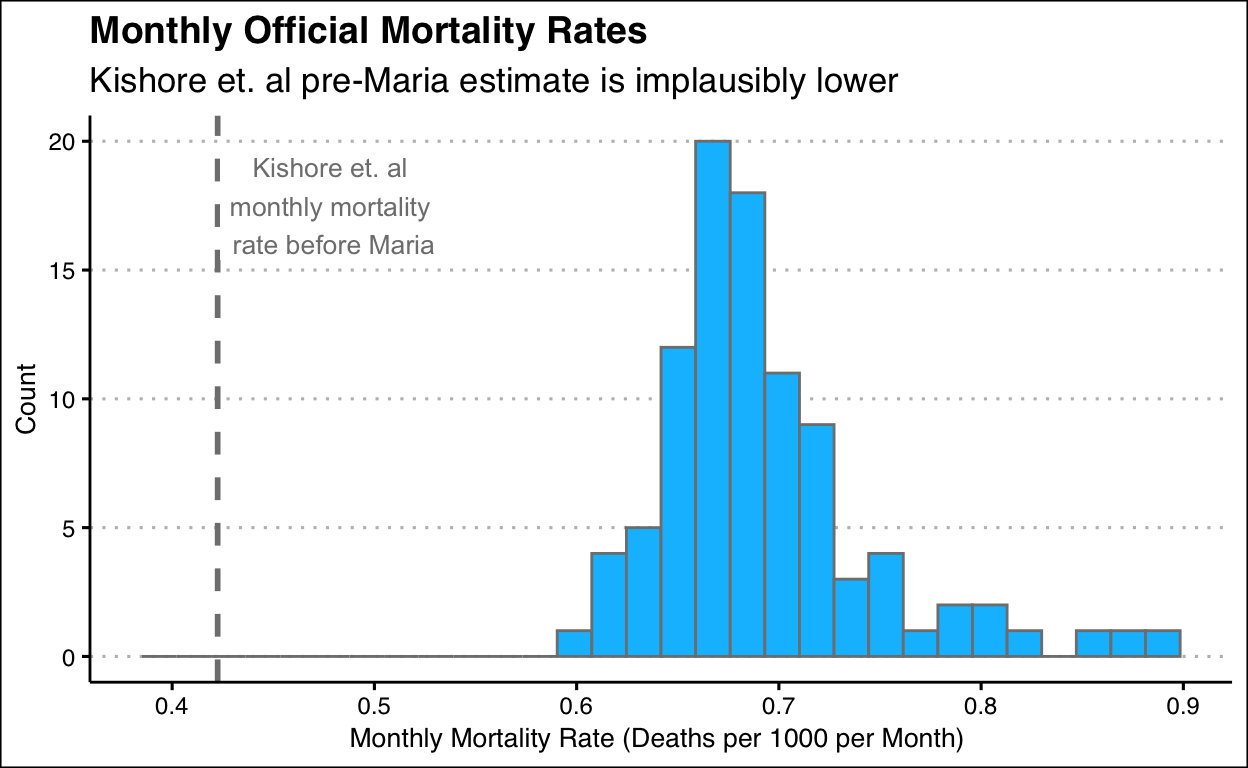
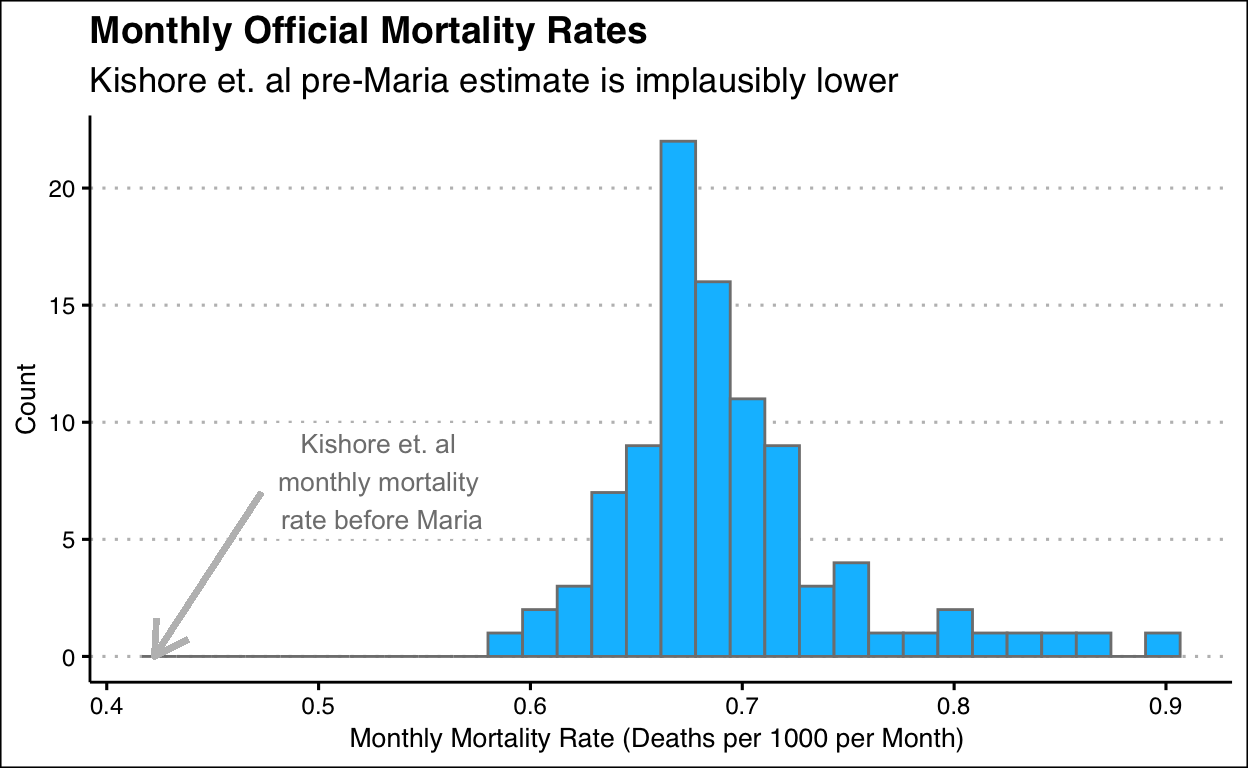
better version; ready for master

diff --git a/docs/news.html b/docs/news.html
@@ -91,8 +91,8 @@ code span.wa { color: #5e5e5e; font-style: italic; } /* Warning */
 
 
   <!--  https://schema.org/Article -->
-  <meta property="article:published" itemprop="datePublished" content="2021-07-30"/>
-  <meta property="article:created" itemprop="dateCreated" content="2021-07-30"/>
+  <meta property="article:published" itemprop="datePublished" content="2021-08-07"/>
+  <meta property="article:created" itemprop="dateCreated" content="2021-08-07"/>
   <meta name="article:author" content="David D. Kane"/>
   <meta name="article:author" content="Shreeram Patkar"/>
 
@@ -110,11 +110,10 @@ code span.wa { color: #5e5e5e; font-style: italic; } /* Warning */
   
   <meta name="citation_reference" content="citation_title=Mortality in puerto rico after hurricane maria;citation_publication_date=2018;citation_doi=10.1056/NEJMsa1803972;citation_author=Mahmud A Kishore N"/>
   <meta name="citation_reference" content="citation_title=Fatalities in the united states indirectly associated with atlantic tropical cyclones;citation_publication_date=2016;citation_doi=10.1175/BAMS-D-15-00042.1;citation_author=B. Wayne Blanchard Edward N. Rappaport"/>
-  <meta name="citation_reference" content="citation_title=Use of death counts from vital statistics to calculate excess deaths in puerto rico following hurricane maria;citation_publication_date=2018;citation_doi=10.1001/jama.2018.10929;citation_author=Jeffrey T. Howard Alexis R. Santos-Lozada"/>
   <!--radix_placeholder_rmarkdown_metadata-->
 
   <script type="text/json" id="radix-rmarkdown-metadata">
-  {"type":"list","attributes":{"names":{"type":"character","attributes":{},"value":["title","authors","date","output","bibliography","author"]}},"value":[{"type":"character","attributes":{},"value":["Mortality Estimation"]},{"type":"list","attributes":{},"value":[{"type":"list","attributes":{"names":{"type":"character","attributes":{},"value":["name"]}},"value":[{"type":"character","attributes":{},"value":["David D. Kane"]}]},{"type":"list","attributes":{"names":{"type":"character","attributes":{},"value":["name"]}},"value":[{"type":"character","attributes":{},"value":["Shreeram Patkar"]}]}]},{"type":"character","attributes":{},"value":["2021-07-30"]},{"type":"character","attributes":{},"value":["distill::distill_article"]},{"type":"character","attributes":{},"value":["bibliography.bib"]},{"type":"list","attributes":{},"value":[{"type":"list","attributes":{"names":{"type":"character","attributes":{},"value":["name"]}},"value":[{"type":"character","attributes":{},"value":["David D. Kane"]}]},{"type":"list","attributes":{"names":{"type":"character","attributes":{},"value":["name"]}},"value":[{"type":"character","attributes":{},"value":["Shreeram Patkar"]}]}]}]}
+  {"type":"list","attributes":{"names":{"type":"character","attributes":{},"value":["title","authors","date","output","bibliography","author"]}},"value":[{"type":"character","attributes":{},"value":["Mortality Estimation"]},{"type":"list","attributes":{},"value":[{"type":"list","attributes":{"names":{"type":"character","attributes":{},"value":["name"]}},"value":[{"type":"character","attributes":{},"value":["David D. Kane"]}]},{"type":"list","attributes":{"names":{"type":"character","attributes":{},"value":["name"]}},"value":[{"type":"character","attributes":{},"value":["Shreeram Patkar"]}]}]},{"type":"character","attributes":{},"value":["2021-08-07"]},{"type":"character","attributes":{},"value":["distill::distill_article"]},{"type":"character","attributes":{},"value":["bibliography.bib"]},{"type":"list","attributes":{},"value":[{"type":"list","attributes":{"names":{"type":"character","attributes":{},"value":["name"]}},"value":[{"type":"character","attributes":{},"value":["David D. Kane"]}]},{"type":"list","attributes":{"names":{"type":"character","attributes":{},"value":["name"]}},"value":[{"type":"character","attributes":{},"value":["Shreeram Patkar"]}]}]}]}
   </script>
   <!--/radix_placeholder_rmarkdown_metadata-->
   <!--radix_placeholder_navigation_in_header-->
@@ -2059,7 +2058,7 @@ code span.wa { color: #5e5e5e; font-style: italic; } /* Warning */
 <!--radix_placeholder_front_matter-->
 
 <script id="distill-front-matter" type="text/json">
-{"title":"Mortality Estimation","authors":[{"author":"David D. Kane","authorURL":"#","affiliation":"&nbsp;","affiliationURL":"#","orcidID":""},{"author":"Shreeram Patkar","authorURL":"#","affiliation":"&nbsp;","affiliationURL":"#","orcidID":""}],"publishedDate":"2021-07-30T00:00:00.000+00:00","citationText":"Kane & Patkar, 2021"}
+{"title":"Mortality Estimation","authors":[{"author":"David D. Kane","authorURL":"#","affiliation":"&nbsp;","affiliationURL":"#","orcidID":""},{"author":"Shreeram Patkar","authorURL":"#","affiliation":"&nbsp;","affiliationURL":"#","orcidID":""}],"publishedDate":"2021-08-07T00:00:00.000+00:00","citationText":"Kane & Patkar, 2021"}
 </script>
 
 <!--/radix_placeholder_front_matter-->
@@ -2098,14 +2097,27 @@ code span.wa { color: #5e5e5e; font-style: italic; } /* Warning */
 <!-- ### Methodical Discrepancies -->
 <!-- When approximating the loss of life, we characterize the loss as a “direct” death; that is, we attribute the fatality to a physical manifestation of the storm. The most common examples of direct deaths are drowning in storm surge, storm-driven waves, rip currents, or freshwater flood from rain. They also include physical trauma incurred from windborne debris or structural failure induced by wind (tornadic and otherwise) [@BAMS]. Consequently, the official death toll for Hurricane Maria was estimated to be 64 (later increased to 2,975) [@govtoll]. Contrarily, [@kishore2018]'s methodology includes indirect deaths caused by the worsening of chronic conditions, delayed medical treatments and more and thus has a far higher reported death toll of 4,625. The methodical discrepancies mentioned above are ultimately responsible for the varying death counts and the resulting chaotic media coverage -->
 <h3 id="how-typical-storm-mortality-is-measured">How typical storm mortality is measured</h3>
-<p>When approximating the loss of life, we characterize the loss as a “direct” death; that is, we attribute the fatality to a physical manifestation of the storm <span class="citation" data-cites="BAMS">(<a href="#ref-BAMS" role="doc-biblioref">Edward N. Rappaport 2016</a>)</span>. The most common examples of direct deaths are drowning in storm surge, storm-driven waves, rip currents, or freshwater flood from rain. They also include physical trauma incurred from windborne debris or structural failure induced by wind (tornadic and otherwise). Consequently, the official death toll for Hurricane Maria was estimated to be <a href="https://www.telemundopr.com/noticias/puerto-rico/aumentan-a-64-las-muertes-por-el-huracan-maria/10690/">64</a>.</p>
-<h3 id="what-happened-after-the-study-was-published">What happened after the study was published</h3>
-<p>Unlike previous official studies, <span class="citation" data-cites="kishore2018">(<a href="#ref-kishore2018" role="doc-biblioref">Kishore N 2018</a>)</span>’s methodology includes indirect deaths caused by the worsening of chronic conditions, delayed medical treatments and more. It thus has a far higher reported death toll of 4,625 as compared to other official studies. The differences in the definition of “excess mortality” between <span class="citation" data-cites="kishore2018">(<a href="#ref-kishore2018" role="doc-biblioref">Kishore N 2018</a>)</span> and the official study was ignored by the general media and lead to headlines such as <a href="https://www.nytimes.com/2018/05/29/us/puerto-rico-deaths-hurricane.html"><em>“Puerto Rico’s Hurricane Maria Death Toll Could Exceed 4,000, New Study Estimates”</em></a> (New York Times) and many subsequently flawed investigations. These consequently lead to public chaos and the presumed severity of the hurricane being inconsistent. Following the public outcry, the government of Puerto Rico “updated” its original mortality to 2,975 <span class="citation" data-cites="govtoll">(<a href="#ref-govtoll" role="doc-biblioref">Alexis R. Santos-Lozada 2018</a>)</span>, yet another confusing and inconsistent figure.</p>
+<p>“When approximating the loss of life, [the US government] characterizes the loss as a “direct” death; that is, we attribute the fatality to a physical manifestation of the storm" <span class="citation" data-cites="BAMS">(<a href="#ref-BAMS" role="doc-biblioref">Edward N. Rappaport 2016</a>)</span>. The most common examples of direct deaths are drowning in storm surge, storm-driven waves, rip currents, or freshwater flood from rain. They also include physical trauma incurred from windborne debris or structural failure induced by wind (tornadic and otherwise). Consequently, the official death toll for Hurricane Maria was determined to be <a href="https://www.telemundopr.com/noticias/puerto-rico/aumentan-a-64-las-muertes-por-el-huracan-maria/10690/">64</a>.</p>
+<h3 id="what-happened-timeline">What happened (Timeline)</h3>
+<h4 id="september-2017"><strong>September 2017</strong></h4>
+<p>Hurricane maria makes landfall and leaves behind a path of distruction</p>
+<h4 id="october-2017"><strong>October 2017</strong></h4>
+<p>The Puerto Rican government releases the official death toll of 64 people.</p>
+<h4 id="july-2018"><strong>July 2018</strong></h4>
+<p><span class="citation" data-cites="kishore2018">(<a href="#ref-kishore2018" role="doc-biblioref">Kishore N 2018</a>)</span> is published in the New England Journal of Medicine and reveals that according to their study, the hurricane’s mortality rate should be 4,625</p>
+<h4 id="july-august-2018"><strong>July-August 2018</strong></h4>
+<p><span class="citation" data-cites="kishore2018">(<a href="#ref-kishore2018" role="doc-biblioref">Kishore N 2018</a>)</span> gains traction and starts making headlines such as the following:</p>
+<ul>
+<li><a href="https://www.nytimes.com/2018/05/29/us/puerto-rico-deaths-hurricane.html"><em>“Puerto Rico’s Hurricane Maria Death Toll Could Exceed 4,000, New Study Estimates”</em></a> (The New York Times)</li>
+<li><a href="https://www.wsj.com/articles/death-toll-from-hurricane-maria-may-exceed-4-600-in-puerto-rico-study-says-1527610573"><em>“New Study Puts Hurricane Maria Death Toll in Puerto Rico at 4,600”</em></a> (The Wall Street Journal)</li>
+<li><a href="https://www.washingtonpost.com/national/harvard-study-estimates-thousands-died-in-puerto-rico-due-to-hurricane-maria/2018/05/29/1a82503a-6070-11e8-a4a4-c070ef53f315_story.html"><em>“Harvard study estimates thousands died in Puerto Rico because of Hurricane Maria”</em></a> (The Washington Post)</li>
+</ul>
+<p>None of these initial articles included the important differences between <span class="citation" data-cites="kishore2018">(<a href="#ref-kishore2018" role="doc-biblioref">Kishore N 2018</a>)</span>’s study other official ones. As a result, <span class="citation" data-cites="kishore2018">(<a href="#ref-kishore2018" role="doc-biblioref">Kishore N 2018</a>)</span> was compared to the official death count even though one included indirect deaths and the other did not. Consequently, the presumed severity of the hurricane Maria was inconsistent.</p>
+<h4 id="august-2018"><strong>August 2018</strong></h4>
+<p>The government of Puerto Rico commissions a study released over two months that concludes with an estimated mortality of 2,975.</p>
+<!-- Unlike previous official studies, [@kishore2018]'s methodology includes indirect deaths caused by the worsening of chronic conditions, delayed medical treatments and more. It thus has a far higher reported death toll of 4,625 as compared to other official studies. The differences in the definition of "excess mortality" between [@kishore2018] and the official study was ignored by the general media and lead to headlines such as [*"Puerto Rico’s Hurricane Maria Death Toll Could Exceed 4,000, New Study Estimates"*](https://www.nytimes.com/2018/05/29/us/puerto-rico-deaths-hurricane.html) (New York Times) and many subsequently flawed investigations. These consequently lead to public chaos and the presumed severity of the hurricane being inconsistent. Following the public outcry, the government of Puerto Rico "updated" its original mortality to 2,975 [@govtoll], yet another confusing and inconsistent figure. -->
 <div class="sourceCode" id="cb1"><pre class="sourceCode r distill-force-highlighting-css"><code class="sourceCode r"></code></pre></div>
 <div id="refs" class="references csl-bib-body hanging-indent" role="doc-bibliography">
-<div id="ref-govtoll" class="csl-entry" role="doc-biblioentry">
-Alexis R. Santos-Lozada, Jeffrey T. Howard. 2018. <span>“Use of Death Counts from Vital Statistics to Calculate Excess Deaths in Puerto Rico Following Hurricane Maria.”</span> <em>The Journal of the American Medical Association</em>. <a href="https://doi.org/10.1001/jama.2018.10929">https://doi.org/10.1001/jama.2018.10929</a>.
-</div>
 <div id="ref-BAMS" class="csl-entry" role="doc-biblioentry">
 Edward N. Rappaport, B. Wayne Blanchard. 2016. <span>“Fatalities in the United States Indirectly Associated with Atlantic Tropical Cyclones.”</span> <em>Bulletin of the American Meteorological Society</em>. <a href="https://doi.org/10.1175/BAMS-D-15-00042.1">https://doi.org/10.1175/BAMS-D-15-00042.1</a>.
 </div>

diff --git a/docs/discussion.html b/docs/discussion.html
@@ -91,8 +91,8 @@ code span.wa { color: #5e5e5e; font-style: italic; } /* Warning */
 
 
   <!--  https://schema.org/Article -->
-  <meta property="article:published" itemprop="datePublished" content="2021-07-30"/>
-  <meta property="article:created" itemprop="dateCreated" content="2021-07-30"/>
+  <meta property="article:published" itemprop="datePublished" content="2021-08-07"/>
+  <meta property="article:created" itemprop="dateCreated" content="2021-08-07"/>
 
   <!--  https://developers.facebook.com/docs/sharing/webmasters#markup -->
   <meta property="og:title" content="Hurricane Maria Mortality Rate: Detailed Discussion"/>
@@ -112,7 +112,7 @@ code span.wa { color: #5e5e5e; font-style: italic; } /* Warning */
   <!--radix_placeholder_rmarkdown_metadata-->
 
   <script type="text/json" id="radix-rmarkdown-metadata">
-  {"type":"list","attributes":{"names":{"type":"character","attributes":{},"value":["title","date","output","bibliography"]}},"value":[{"type":"character","attributes":{},"value":["Detailed Discussion"]},{"type":"character","attributes":{},"value":["2021-07-30"]},{"type":"character","attributes":{},"value":["distill::distill_article"]},{"type":"character","attributes":{},"value":["bibliography.bib"]}]}
+  {"type":"list","attributes":{"names":{"type":"character","attributes":{},"value":["title","date","output","bibliography"]}},"value":[{"type":"character","attributes":{},"value":["Detailed Discussion"]},{"type":"character","attributes":{},"value":["2021-08-07"]},{"type":"character","attributes":{},"value":["distill::distill_article"]},{"type":"character","attributes":{},"value":["bibliography.bib"]}]}
   </script>
   <!--/radix_placeholder_rmarkdown_metadata-->
   <!--radix_placeholder_navigation_in_header-->
@@ -2057,7 +2057,7 @@ code span.wa { color: #5e5e5e; font-style: italic; } /* Warning */
 <!--radix_placeholder_front_matter-->
 
 <script id="distill-front-matter" type="text/json">
-{"title":"Detailed Discussion","authors":[],"publishedDate":"2021-07-30T00:00:00.000+00:00"}
+{"title":"Detailed Discussion","authors":[],"publishedDate":"2021-08-07T00:00:00.000+00:00"}
 </script>
 
 <!--/radix_placeholder_front_matter-->
@@ -2096,13 +2096,38 @@ code span.wa { color: #5e5e5e; font-style: italic; } /* Warning */
 <h3 id="annotated-section-of-authors-reply-resp2018">Annotated Section of Author’s Reply <span class="citation" data-cites="resp2018">(<a href="#ref-resp2018" role="doc-biblioref">Satchit Balsari 2018</a>)</span></h3>
 <h4 id="author-satchit-balsari-caroline-o.-buckee-rafael-a.-irizarry">Author: Satchit Balsari, Caroline O. Buckee, Rafael A. Irizarry,</h4>
 <blockquote>
-<p>It is important to note that our study shed light not only on excess deaths but also on the possibility of prolonged, indirect effects of the hurricane, as well as causes of death and infrastructure disruption.</p>
+<p>It is important to note that our study shed light not only on excess deaths but also on the possibility of prolonged, indirect effects of the hurricane, as well as causes of death and infrastructure disruption. The limitations of the use of post-disaster surveys to calculate mortality or excess deaths are well articulated in the literature. We attempted to address known challenges with sampling, stratification, and biases in the methods we adopted.</p>
 </blockquote>
-<p>Although this was mentioned early in the paper, it should have been thoroughly clarified that this paper’s method differs from other official papers in the way that deaths are counted. The authors should have declared that the paper’s findings are not directly comparable to the official death count and would have thus prevented public confusion.</p>
+<p>These sentence do not answer any aspects of Kane’s critique</p>
 <blockquote>
-<p>The limitations of the use of post-disaster surveys to calculate mortality or excess deaths are well articulated in the literature. We attempted to address known challenges with sampling, stratification, and biases in the methods we adopted. As noted by Kane, the raw, prehurricane estimates of mortality from our survey were lower than historical averages. We have addressed this issue in detail, both in a Technical FAQ (<a href="https://github.com/c2-d2/pr_mort_official/blob/master/misc/technical-faq.pdf" class="uri">https://github.com/c2-d2/pr_mort_official/blob/master/misc/technical-faq.pdf</a>) and in a public discussion forum with Kane in June 2018 (<a href="https://github.com/c2-d2/pr_mort_official/issues/7" class="uri">https://github.com/c2-d2/pr_mort_official/issues/7</a>).</p>
+<p>As noted by Kane, the raw, prehurricane estimates of mortality from our survey were lower than historical averages.</p>
 </blockquote>
-<p>The adjustments made to address these sampling, stratification, and bias challenges proved to not work. According to the Technical FAQ the low pre-hurricane death rate was 2.6 per 1000 which was due to the underestimation of single-person households. Omitting this demographic did not work and yielded a low pre-hurricane mortality rate of 2.78 because it largely influenced the data as many single residents are senior citizens. Again, this important detail should have been mentioned in the paper. Finally, the pre-hurricane rate was then mathematically adjusted to equal a more plausible 7.72 deaths per 1000 however, this adjustment yields an implausibly high post-hurricane mortality rate of 18.2 per 1000. Thus, the adjustments alone do not seems to be reliable.</p>
+<p>This should have been mentioned in the paper. Not aligning with historical averages can be a cause for concern.</p>
+<blockquote>
+<p>We have addressed this issue in detail, both in a Technical FAQ (<a href="https://github.com/c2-d2/pr_mort_official/blob/master/misc/technical-faq.pdf" class="uri">https://github.com/c2-d2/pr_mort_official/blob/master/misc/technical-faq.pdf</a>) and in a public discussion forum with Kane in June 2018 (<a href="https://github.com/c2-d2/pr_mort_official/issues/7" class="uri">https://github.com/c2-d2/pr_mort_official/issues/7</a>).</p>
+</blockquote>
+<p>The Technical FAQ is addressed below:</p>
+<blockquote>
+<blockquote>
+<p>As mentioned in the paper, our survey is unable to capture deaths in single-person households. This introduces a bias that results in underestimation of both before and after the hurricane. The death rate in single-person households is found to be 0 — this cannot be true. First, the median age in this single-person households is 69. Second, this death rate is expected because we missed (i.e., could not count) the single-person households where there had been a death (as there was no one to answer the door!)(Technical FAQ)</p>
+</blockquote>
+</blockquote>
+<div class="line-block">        These details were not explained thoroughly enough in the paper. The paper mentioned<br />
+        that single person households were under-counted but did not explain the reasoning<br />
+        and impact of this issue.<br />
+</div>
+<p><br /></p>
+<blockquote>
+<blockquote>
+<p>Removing all households with the size of one increases the “before estimate” but not by much. However, it is important to note that the households of size one appeared to be older, on average, than other households which likely results in an underestimate of the mortality rate if we simply remove these from our analysis. An alternative approach would be to plug in a more realistic rate for these households and then adjust for the bias favoring larger households. We took the conservative approach and plugged in the same rate for both before and after the hurricane. To compute a confidence interval we use Keyfitz’s approximation.</p>
+</blockquote>
+</blockquote>
+<div class="line-block">        The adjustments made to address these sampling, stratification, and bias challenges<br />
+        proved to not work. The pre-hurricane rate was mathematically adjusted to equal a<br />
+        more plausible 7.72 deaths per 1000 however, this adjustment yields an implausibly<br />
+        high post-hurricane mortality rate of 18.2 per 1000 (which would equal roughly<br />
+        58,000 people). Thus, the adjustments alone do not seems to be reliable.</div>
+<p><br /></p>
 <blockquote>
 <p>We were aware of this issue and did not use prehurricane data for any of the estimates reported in our article.</p>
 </blockquote>

diff --git a/docs/about.html b/docs/about.html
@@ -92,8 +92,8 @@ code span.wa { color: #5e5e5e; font-style: italic; } /* Warning */
 
 
   <!--  https://schema.org/Article -->
-  <meta property="article:published" itemprop="datePublished" content="2021-07-30"/>
-  <meta property="article:created" itemprop="dateCreated" content="2021-07-30"/>
+  <meta property="article:published" itemprop="datePublished" content="2021-08-07"/>
+  <meta property="article:created" itemprop="dateCreated" content="2021-08-07"/>
   <meta name="article:author" content="David D. Kane"/>
   <meta name="article:author" content="Shreeram Patkar"/>
 
@@ -116,7 +116,7 @@ code span.wa { color: #5e5e5e; font-style: italic; } /* Warning */
   <!--radix_placeholder_rmarkdown_metadata-->
 
   <script type="text/json" id="radix-rmarkdown-metadata">
-  {"type":"list","attributes":{"names":{"type":"character","attributes":{},"value":["title","description","authors","date","output","bibliography","author"]}},"value":[{"type":"character","attributes":{},"value":["About this site"]},{"type":"character","attributes":{},"value":["Authors, Objectives, Contact and Sources\n"]},{"type":"list","attributes":{},"value":[{"type":"list","attributes":{"names":{"type":"character","attributes":{},"value":["name"]}},"value":[{"type":"character","attributes":{},"value":["David D. Kane"]}]},{"type":"list","attributes":{"names":{"type":"character","attributes":{},"value":["name"]}},"value":[{"type":"character","attributes":{},"value":["Shreeram Patkar"]}]}]},{"type":"character","attributes":{},"value":["2021-07-30"]},{"type":"character","attributes":{},"value":["distill::distill_article"]},{"type":"character","attributes":{},"value":["bibliography.bib"]},{"type":"list","attributes":{},"value":[{"type":"list","attributes":{"names":{"type":"character","attributes":{},"value":["name"]}},"value":[{"type":"character","attributes":{},"value":["David D. Kane"]}]},{"type":"list","attributes":{"names":{"type":"character","attributes":{},"value":["name"]}},"value":[{"type":"character","attributes":{},"value":["Shreeram Patkar"]}]}]}]}
+  {"type":"list","attributes":{"names":{"type":"character","attributes":{},"value":["title","description","authors","date","output","bibliography","author"]}},"value":[{"type":"character","attributes":{},"value":["About this site"]},{"type":"character","attributes":{},"value":["Authors, Objectives, Contact and Sources\n"]},{"type":"list","attributes":{},"value":[{"type":"list","attributes":{"names":{"type":"character","attributes":{},"value":["name"]}},"value":[{"type":"character","attributes":{},"value":["David D. Kane"]}]},{"type":"list","attributes":{"names":{"type":"character","attributes":{},"value":["name"]}},"value":[{"type":"character","attributes":{},"value":["Shreeram Patkar"]}]}]},{"type":"character","attributes":{},"value":["2021-08-07"]},{"type":"character","attributes":{},"value":["distill::distill_article"]},{"type":"character","attributes":{},"value":["bibliography.bib"]},{"type":"list","attributes":{},"value":[{"type":"list","attributes":{"names":{"type":"character","attributes":{},"value":["name"]}},"value":[{"type":"character","attributes":{},"value":["David D. Kane"]}]},{"type":"list","attributes":{"names":{"type":"character","attributes":{},"value":["name"]}},"value":[{"type":"character","attributes":{},"value":["Shreeram Patkar"]}]}]}]}
   </script>
   <!--/radix_placeholder_rmarkdown_metadata-->
   <!--radix_placeholder_navigation_in_header-->
@@ -2061,7 +2061,7 @@ code span.wa { color: #5e5e5e; font-style: italic; } /* Warning */
 <!--radix_placeholder_front_matter-->
 
 <script id="distill-front-matter" type="text/json">
-{"title":"About this site","description":"Authors, Objectives, Contact and Sources","authors":[{"author":"David D. Kane","authorURL":"#","affiliation":"&nbsp;","affiliationURL":"#","orcidID":""},{"author":"Shreeram Patkar","authorURL":"#","affiliation":"&nbsp;","affiliationURL":"#","orcidID":""}],"publishedDate":"2021-07-30T00:00:00.000+00:00","citationText":"Kane & Patkar, 2021"}
+{"title":"About this site","description":"Authors, Objectives, Contact and Sources","authors":[{"author":"David D. Kane","authorURL":"#","affiliation":"&nbsp;","affiliationURL":"#","orcidID":""},{"author":"Shreeram Patkar","authorURL":"#","affiliation":"&nbsp;","affiliationURL":"#","orcidID":""}],"publishedDate":"2021-08-07T00:00:00.000+00:00","citationText":"Kane & Patkar, 2021"}
 </script>
 
 <!--/radix_placeholder_front_matter-->

diff --git a/docs/index.html b/docs/index.html
@@ -2091,9 +2091,14 @@ code span.wa { color: #5e5e5e; font-style: italic; } /* Warning */
 
 </div>
 <div class="layout-chunk" data-layout="l-body">
-<p><img src="index_files/figure-html5/unnamed-chunk-2-1.png" width="624" /></p>
+<div class="figure" style="text-align: center"><span id="fig:unnamed-chunk-2"></span>
+<img src="index_files/figure-html5/unnamed-chunk-2-1.png" alt="This plot is a histogram of the monthly mortality rates from 2010 to 2017 (before Hurricane Maria) in Puerto Rico. The x-axis is the monthly mortality rate and the y-axis is the count. The arrow points to the monthly mortality rate as per [@kishore2018]'s calculations. In all, it is evident that the study's estimate is implausibly low" width="624" />
+<p class="caption">
+Figure 1: This plot is a histogram of the monthly mortality rates from 2010 to 2017 (before Hurricane Maria) in Puerto Rico. The x-axis is the monthly mortality rate and the y-axis is the count. The arrow points to the monthly mortality rate as per <span class="citation" data-cites="kishore2018">(<a href="#ref-kishore2018" role="doc-biblioref">Kishore N 2018</a>)</span>’s calculations. In all, it is evident that the study’s estimate is implausibly low
+</p>
 </div>
-<h6 id="this-plot-is-a-histogram-of-the-monthly-mortality-rates-from-2010-to-2017-before-hurricane-maria-in-puerto-rico.-the-x-axis-is-the-monthly-mortality-rate-deaths_monthly-population_annual-1000-and-the-y-axis-is-the-count.-the-dotted-line-represents-the-monthly-mortality-rate-as-per-kishore2018s-calculations.-the-original-calculation-in-kishore2018-produced-an-annual-mortality-rate-and-was-thus-divided-by-twelve-to-be-plotted-on-this-graph.">This plot is a histogram of the monthly mortality rates from 2010 to 2017 (before Hurricane Maria) in Puerto Rico. The x-axis is the monthly mortality rate (<span class="math inline">\(deaths_{monthly} / population_{annual} * 1000\)</span>) and the y-axis is the count. The dotted line represents the monthly mortality rate as per <span class="citation" data-cites="kishore2018">(<a href="#ref-kishore2018" role="doc-biblioref">Kishore N 2018</a>)</span>’s calculations. The original calculation in <span class="citation" data-cites="kishore2018">(<a href="#ref-kishore2018" role="doc-biblioref">Kishore N 2018</a>)</span> produced an annual mortality rate and was thus divided by twelve to be plotted on this graph.</h6>
+</div>
+<!-- This plot is a histogram of the monthly mortality rates from 2010 to 2017 (before Hurricane Maria) in Puerto Rico. The x-axis is the monthly mortality rate ($deaths_{monthly} / population_{annual} * 1000$) and the y-axis is the count. The dotted line represents the monthly mortality rate as per [@kishore2018]'s calculations. The original calculation in [@kishore2018] produced an annual mortality rate and was thus divided by twelve to be plotted on this graph.  -->
 <h3 id="calculation">Calculation</h3>
 <h4 id="na">[N/A]</h4>
 <div class="sourceCode" id="cb1"><pre class="sourceCode r distill-force-highlighting-css"><code class="sourceCode r"></code></pre></div>
@@ -2109,15 +2114,6 @@ Kishore N, Mahmud A, Marqués D. 2018. <span>“Mortality in Puerto Rico After H
 <div class="d-appendix">
 </div>
 
-<!-- dynamically load mathjax for compatibility with self-contained -->
-<script>
-  (function () {
-    var script = document.createElement("script");
-    script.type = "text/javascript";
-    script.src  = "https://mathjax.rstudio.com/latest/MathJax.js?config=TeX-AMS-MML_HTMLorMML";
-    document.getElementsByTagName("head")[0].appendChild(script);
-  })();
-</script>
 
 <!--radix_placeholder_site_after_body-->
 <!--/radix_placeholder_site_after_body-->
